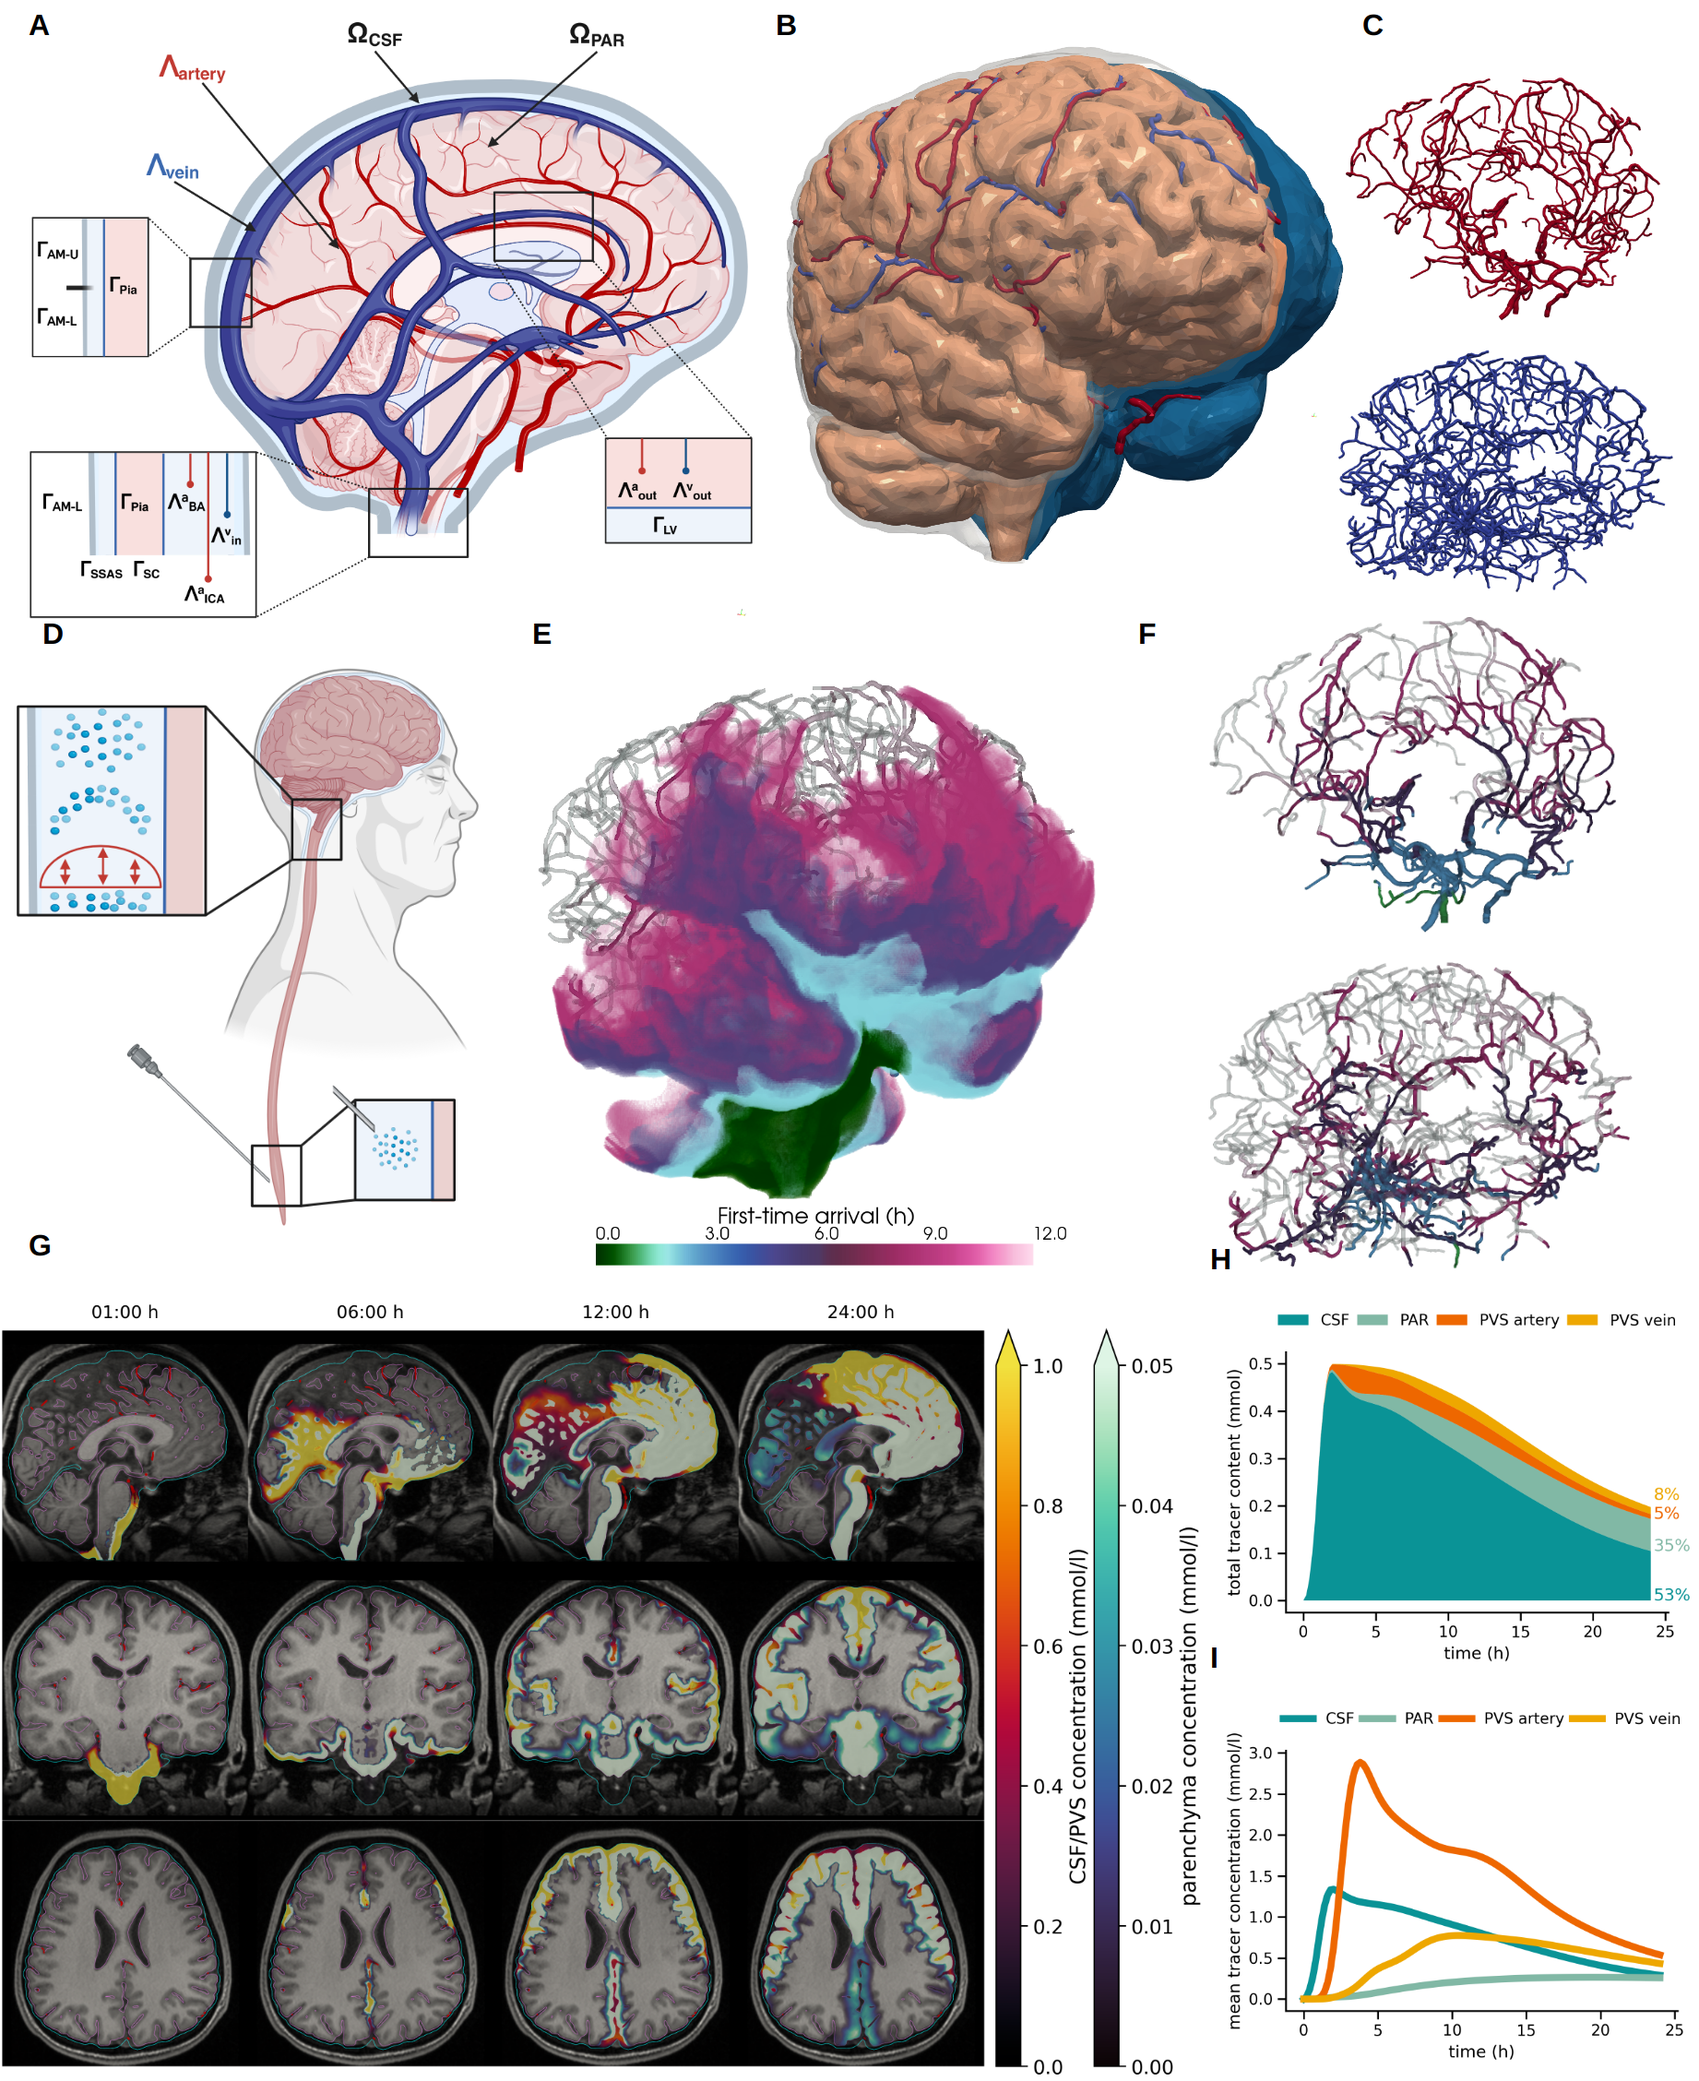
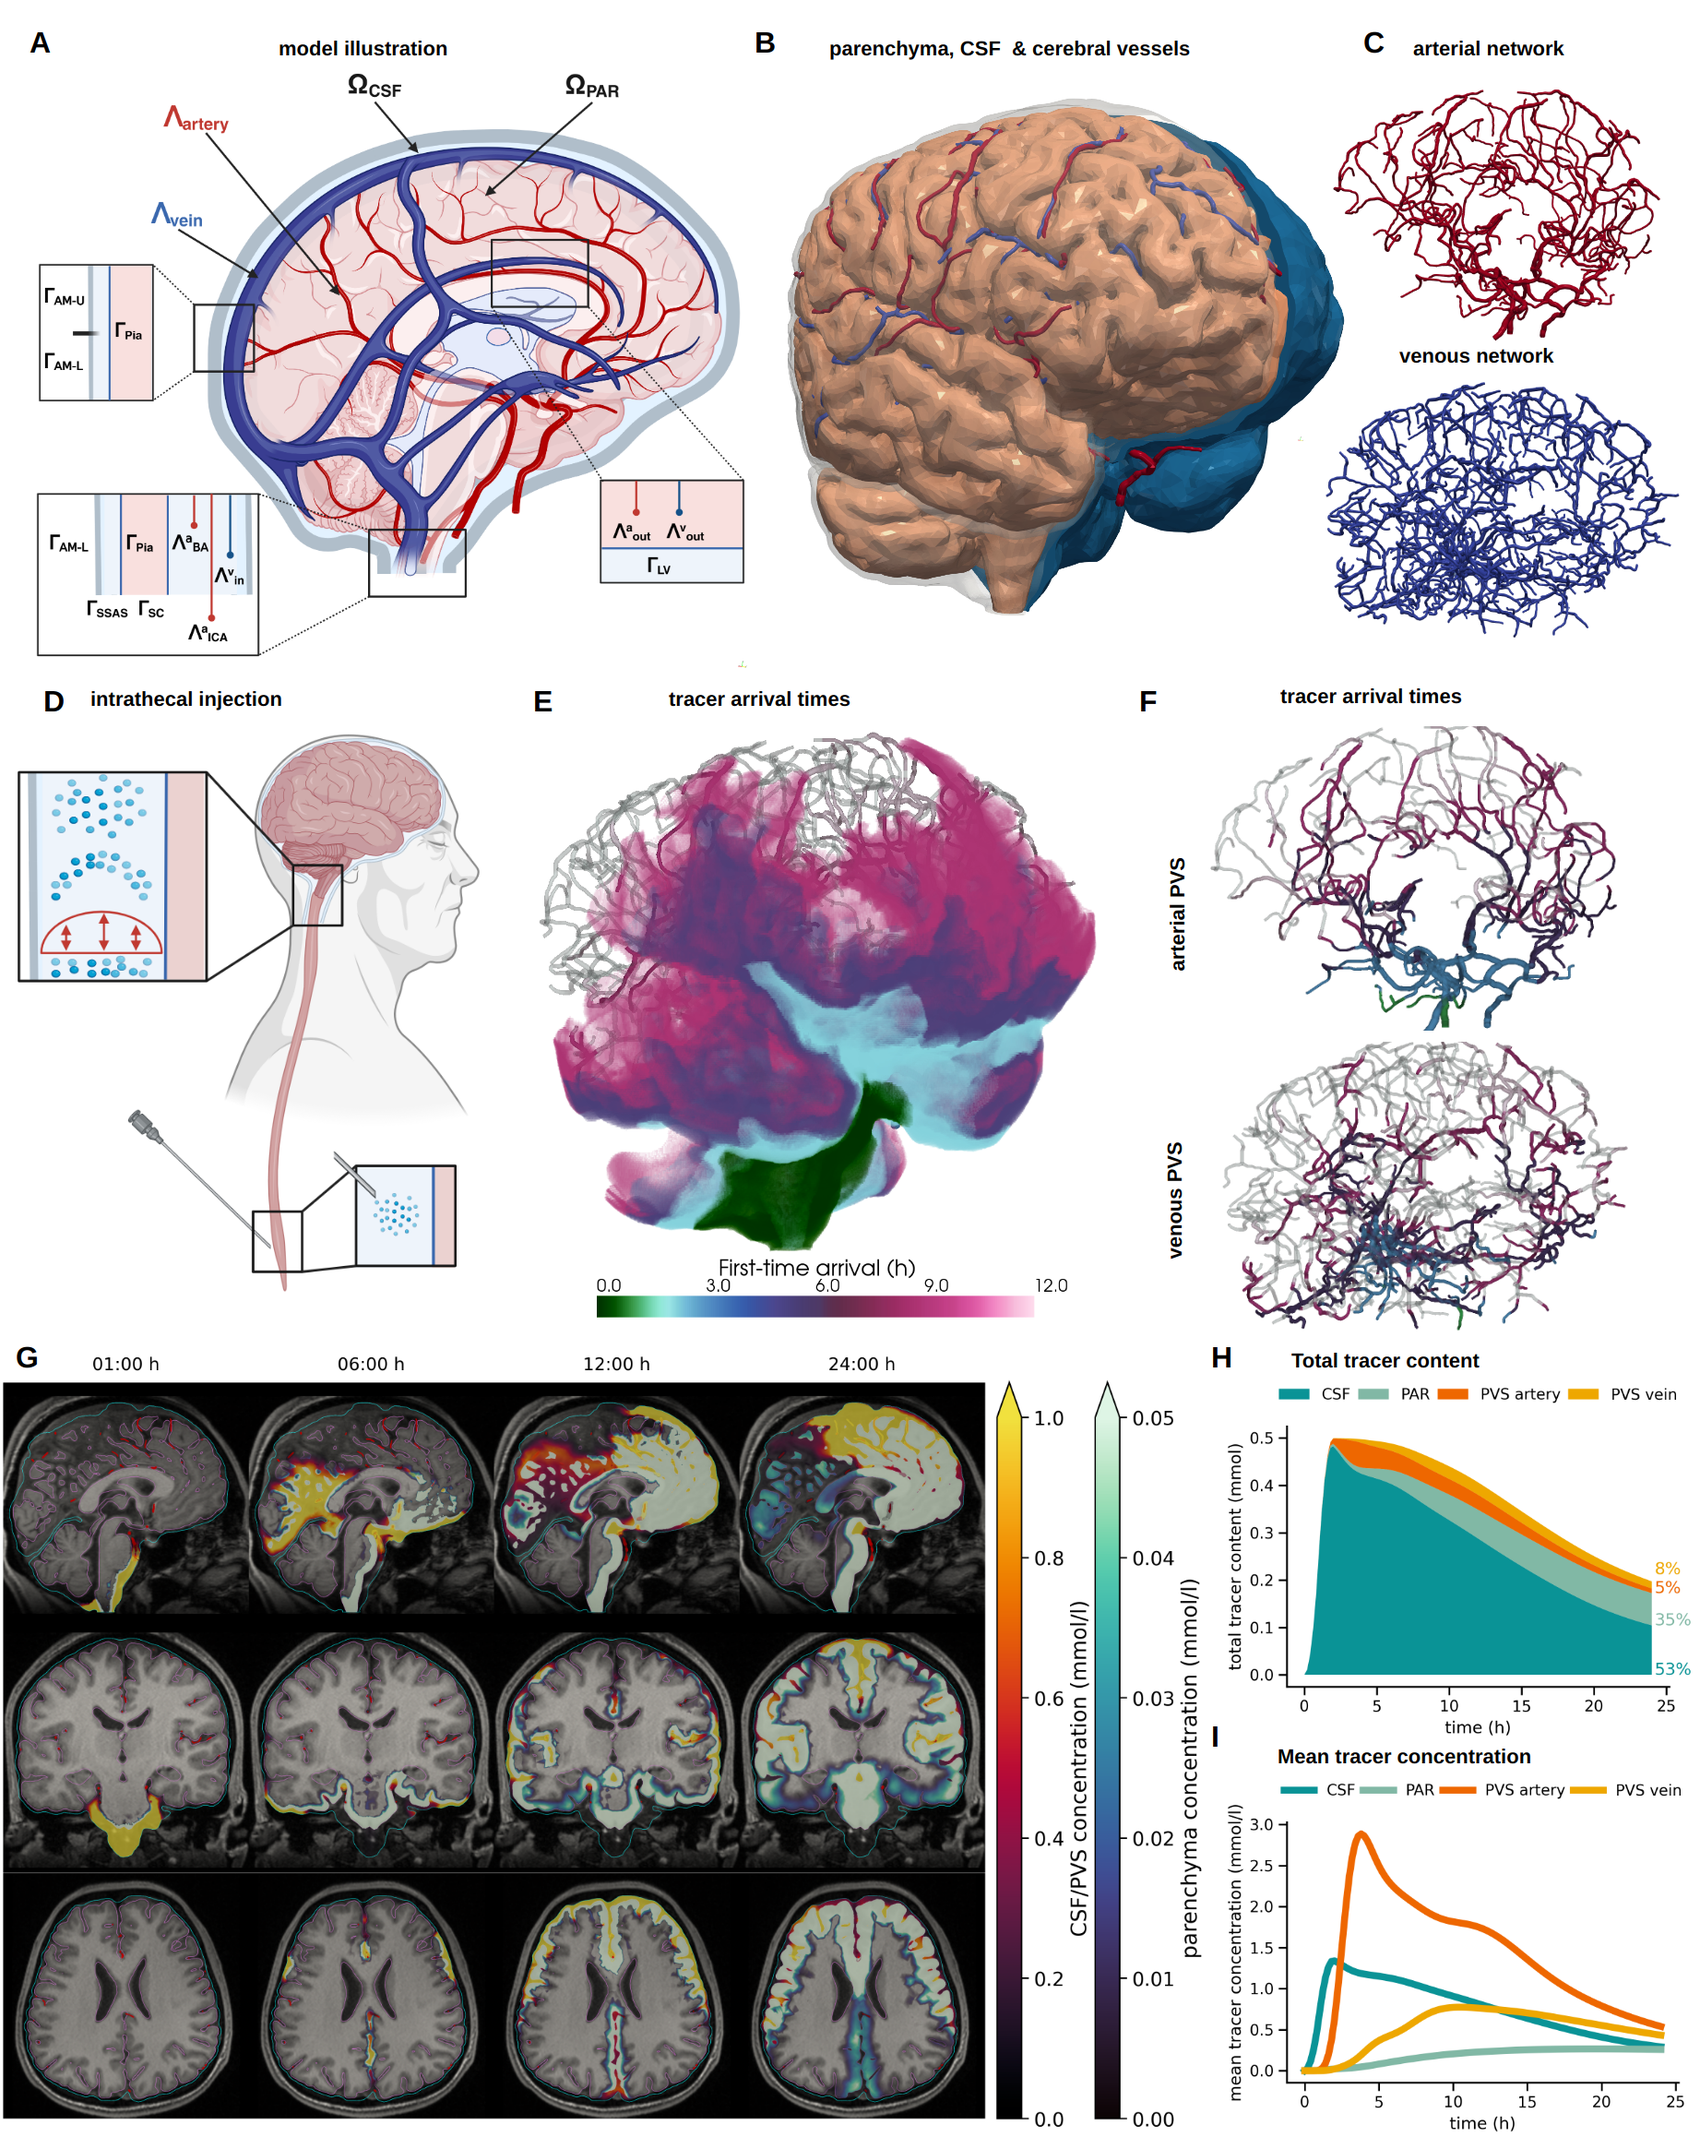
add titles

diff --git a/figure1.html b/figure1.html
@@ -9,21 +9,20 @@
             margin: 1cm;
         }
 
-        body {
-            font-family: Arial, sans-serif;
-        }
 
         h5 {
             color: black;
-            text-align: center;
-            font-size: 9pt;
+            text-align: left;
             font-family: Helvetica;
+            font-size: 5.5pt;
+            margin-top: 20px;
         }
         h4 {
             color: black;
             text-align: left;
             font-size: 8pt;
             font-family: Helvetica;
+            margin-top: 20px;
         }
 
         p {
@@ -37,22 +36,33 @@
     </head>
 </html>
 <img src="plots/modelA/3D_FTA/3D_FTA.png" style="filter:hue-rotate(110deg);object-fit:contain;position:absolute;left:165px;top:230px;width:265px;height:297px;">
-<img src="paper/figures/Brain-PVS-callouts.png" style="object-fit:contain;position:absolute;left:2px;top:43px;width:284px;height:223px;">
+<img src="paper/figures/Brain-PVS-callouts.png" style="object-fit:contain;position:absolute;left:2px;top:43px;width:283px;height:218px;">
 <img src="plots/modelA/modelA_overview_1-6-12-24.png" style="object-fit:contain;position:absolute;left:-6px;top:508px;width:452px;height:287px;">
-<img src="plots/modelA/modelA_total_conc.png" style="object-fit:contain;position:absolute;left:440px;top:500px;width:180px;height:150px;">
-<img src="plots/modelA/modelA_mean_conc.png" style="object-fit:contain;position:absolute;left:440px;top:644px;width:180px;height:150px;">
+<img src="plots/modelA/modelA_total_conc.png" style="object-fit:contain;position:absolute;left:440px;top:508px;width:180px;height:150px;">
+<img src="plots/modelA/modelA_mean_conc.png" style="object-fit:contain;position:absolute;left:440px;top:651px;width:180px;height:150px;">
 <img src="paper/figures/brain_mesh_vessels.png" style="object-fit:contain;position:absolute;left:255px;top:43px;width:258px;height:223px;">
-<img src="paper/figures/arteries_red.png" style="object-fit:contain;position:absolute;left:457px;top:55px;width:181px;height:138px;">
-<img src="paper/figures/veines.png" style="object-fit:contain;position:absolute;left:453px;top:153px;width:186px;height:142px;">
-<img src="plots/modelA/3D_FTA/3D_FTA_arteries.png" style="clip-path:inset(25px 30px 25px 30px);filter:hue-rotate(110deg);object-fit:contain;position:absolute;left:388px;top:230px;width:260px;height:180px;">
-<img src="plots/modelA/3D_FTA/3D_FTA_veins.png" style="clip-path:inset(25px 30px 25px 30px);filter:hue-rotate(110deg);object-fit:contain;position:absolute;left:385px;top:353px;width:266px;height:183px;rotate:0deg;">
-<img src="paper/figures/injection.png" style="object-fit:contain;position:absolute;left:3px;top:266px;width:189px;height:237px;">
-<h4 style="position:absolute;left:13px;top:29px;width:31px;height:24px;">A</h4>
-<h4 style="position:absolute;left:283px;top:29px;width:31px;height:24px;">B</h4>
-<h4 style="position:absolute;left:495px;top:29px;width:31px;height:24px;">C</h4>
+<img src="paper/figures/arteries_red.png" style="object-fit:contain;position:absolute;left:451px;top:40px;width:188px;height:143px;">
+<img src="paper/figures/veines.png" style="object-fit:contain;position:absolute;left:450px;top:145px;width:189px;height:150px;">
+<img src="plots/modelA/3D_FTA/3D_FTA_arteries.png" style="clip-path:inset(35px 60px 35px 50px);filter:hue-rotate(110deg);object-fit:contain;position:absolute;left:388px;top:249px;width:260px;height:180px;">
+<img src="plots/modelA/3D_FTA/3D_FTA_veins.png" style="clip-path:inset(35px 60px 35px 50px);filter:hue-rotate(110deg);object-fit:contain;position:absolute;left:388px;top:363px;width:263px;height:175px;rotate:0deg;">
+<img src="paper/figures/injection.png" style="object-fit:contain;position:absolute;left:3px;top:271px;width:189px;height:237px;">
+<h4 style="position:absolute;left:13px;top:11px;width:31px;height:24px;">A</h4>
+<h4 style="position:absolute;left:275px;top:11px;width:31px;height:24px;">B</h4>
+<h4 style="position:absolute;left:495px;top:11px;width:31px;height:24px;">C</h4>
 <h4 style="position:absolute;left:18px;top:249px;width:31px;height:24px;transform-origin:19px 12px;translate:0px 0px;">D</h4>
 <h4 style="position:absolute;left:195px;top:249px;width:31px;height:24px;">E</h4>
 <h4 style="position:absolute;left:414px;top:249px;width:31px;height:24px;">F</h4>
-<h4 style="position:absolute;left:13px;top:470px;width:31px;height:24px;">G</h4>
-<h4 style="position:absolute;left:440px;top:619px;width:31px;height:24px;">I</h4>
-<h4 style="position:absolute;left:440px;top:475px;width:31px;height:24px;">H</h4>
+<h4 style="position:absolute;left:8px;top:486px;width:31px;height:24px;">G</h4>
+<h4 style="position:absolute;left:440px;top:623px;width:31px;height:24px;">I</h4>
+<h4 style="position:absolute;left:440px;top:486px;width:31px;height:24px;">H</h4>
+<h5 style="position:absolute;left:302px;top:15px;width:179px;height:17px;">parenchyma, CSF&nbsp; &amp; cerebral vessels</h5>
+<h5 style="position:absolute;left:513px;top:15px;width:82px;height:17px;">arterial network</h5>
+<h5 style="position:absolute;left:508px;top:126px;width:82px;height:17px;">venous network</h5>
+<h5 style="position:absolute;left:103px;top:15px;width:99px;height:17px;">model illustration</h5>
+<h5 style="position:absolute;left:35px;top:250px;width:235px;height:17px;">intrathecal injection</h5>
+<h5 style="position:absolute;left:244px;top:250px;width:103px;height:17px;">tracer arrival times</h5>
+<h5 style="position:absolute;left:469px;top:489px;width:235px;height:17px;">Total tracer content</h5>
+<h5 style="position:absolute;left:464px;top:632px;width:235px;height:17px;">Mean tracer concentration</h5>
+<h5 style="position:absolute;left:401px;top:313px;width:62px;height:17px;rotate:270deg;">arterial PVS</h5>
+<h5 style="position:absolute;left:400px;top:417px;width:62px;height:17px;rotate:270deg;">venous PVS</h5>
+<h5 style="position:absolute;left:465px;top:249px;width:103px;height:17px;">tracer arrival times</h5>
